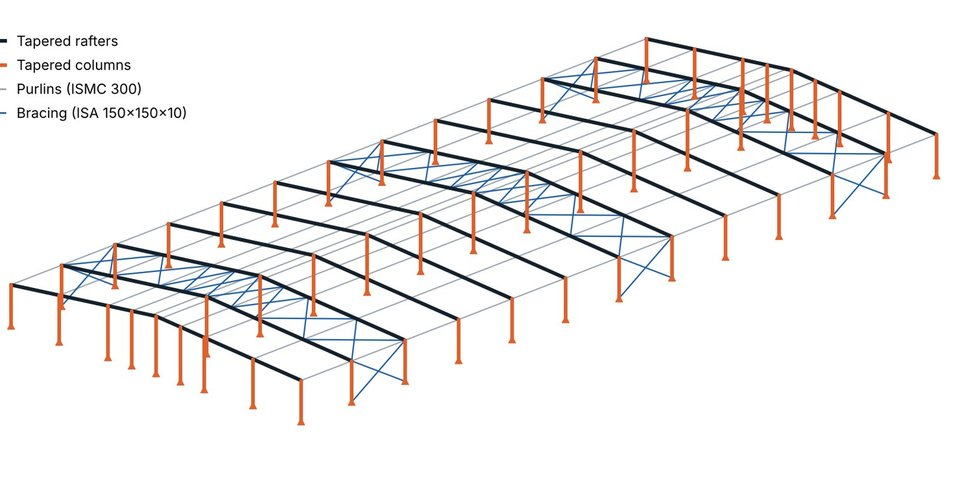
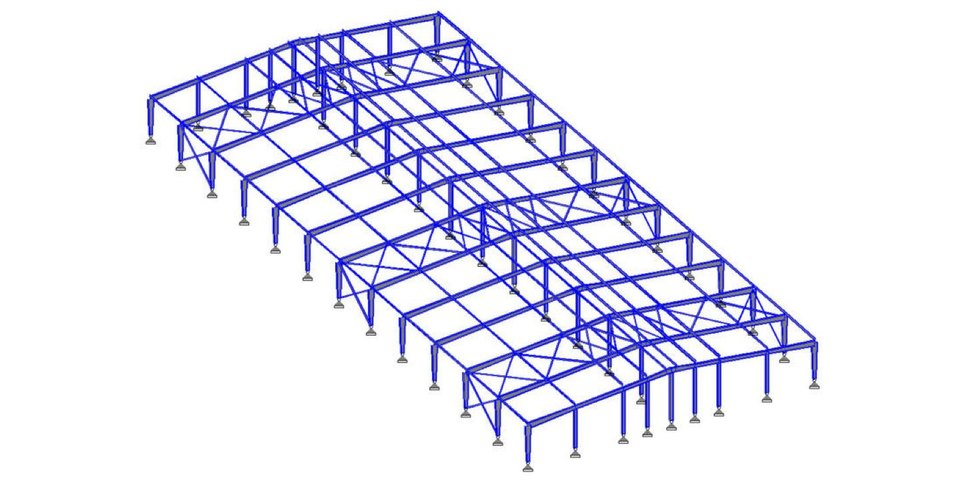
Use STAAD full-section views on PEB project page

Changed region(s): [[0.0, 0.0, 1.0, 1.0], [0.0, 0.0625, 0.125, 0.0938]]

diff --git a/projects/steel-warehouse.html b/projects/steel-warehouse.html
@@ -22,12 +22,13 @@
     <div style="margin-top:18px"><span class="tag mono">Industrial · Steel PEB · IS 800</span> <span class="tag mono">Design project</span></div>
     <h1>Steel PEB Building: 40 m wide, tapered portal frames</h1>
     <p class="lead">A 40 × 91 m pre-engineered steel building of about 3,650 m², with 12 bays of tapered portal frames. I designed the members and the main connections for wind and seismic loads, keeping the steel weight to about 36 kg/m².</p>
-    <figure class="figure"><img src="img/peb_3d.jpg" alt="3D view of the steel PEB building showing tapered rafters, columns, purlins and bracing" width="1600" height="720" loading="eager"><figcaption>Structural model: tapered rafters and columns, purlins, and roof and wall bracing in the end and middle bays.</figcaption></figure>
+    <figure class="figure"><img src="img/peb_staad_3d.jpg" alt="3D analysis model of the steel PEB building with full member sections shown" width="1055" height="719" loading="eager"><figcaption>Analysis model with full member sections: tapered rafters and columns, purlins, and roof and wall bracing.</figcaption></figure>
   </header>
   <div class="p-body">
     <article>
       <h2>The challenge</h2><p>The building needed a 40 m wide covered floor, about 91 m long, with a low eave of 5 m. A wide, low building attracts high wind uplift on the roof, and every frame is repeated twelve times, so any extra steel in one frame is multiplied across the whole building.</p>
       <h2>My approach</h2><ul><li>Set out a two-span frame (2 × 20 m) with a central column, so the rafters stay shallow and light instead of spanning the full 40 m.</li><li>Used tapered I-sections for rafters and columns: deep (up to 750 mm) where bending is highest at the eaves and the ridge, shallow where it is not.</li><li>Applied wind loads to IS 875 Part 3 (basic wind speed 33 m/s) and seismic loads to IS 1893 with a response spectrum analysis, then checked 99 load combinations.</li><li>Placed roof and wall bracing in the end and middle bays to carry wind along the length of the building into the foundations.</li><li>Checked all 361 members to IS 800:2007 (limit state). Every member passes; the highest utilisation is 0.91, on a purlin, and 0.87 on the rafters.</li><li>Designed the eave knee, the central column head and two rafter splices as bolted end-plate connections, and checked plates, bolts and welds with a finite element connection model. All four pass.</li></ul>
+      <figure class="figure"><img src="img/peb_staad_detail.jpg" alt="Close-up of the end bays showing tapered columns, rafters, purlins and X-bracing" width="1140" height="752" loading="lazy"><figcaption>End bays: tapered columns and rafters, the central column line, and X-bracing in the braced bay.</figcaption></figure>
       <figure class="figure"><img src="img/peb_frame.jpg" alt="Elevation of a typical frame: two 20 m spans, 5 m eave, 7 m ridge, pinned bases" width="1400" height="374" loading="lazy"><figcaption>Typical frame: two 20 m spans with a central column and pinned bases.</figcaption></figure>
       <figure class="figure"><img src="img/peb_utilisation.jpg" alt="Member utilisation map, all members below 1.0" width="1600" height="671" loading="lazy"><figcaption>Member check results: colour shows the utilisation ratio of each member (1.0 is the code limit).</figcaption></figure>
       <h2>Results</h2><ul><li>Steel weight of about 133 t, or about 36 kg per m² of floor.</li><li>All members pass, with reserve in the columns (side columns 0.75, central columns 0.51).</li><li>Connections pass with bolts up to 90% and welds up to 99% utilisation; the welds were sized to the forces rather than oversized.</li><li>Support reactions issued for the foundation design.</li></ul>
